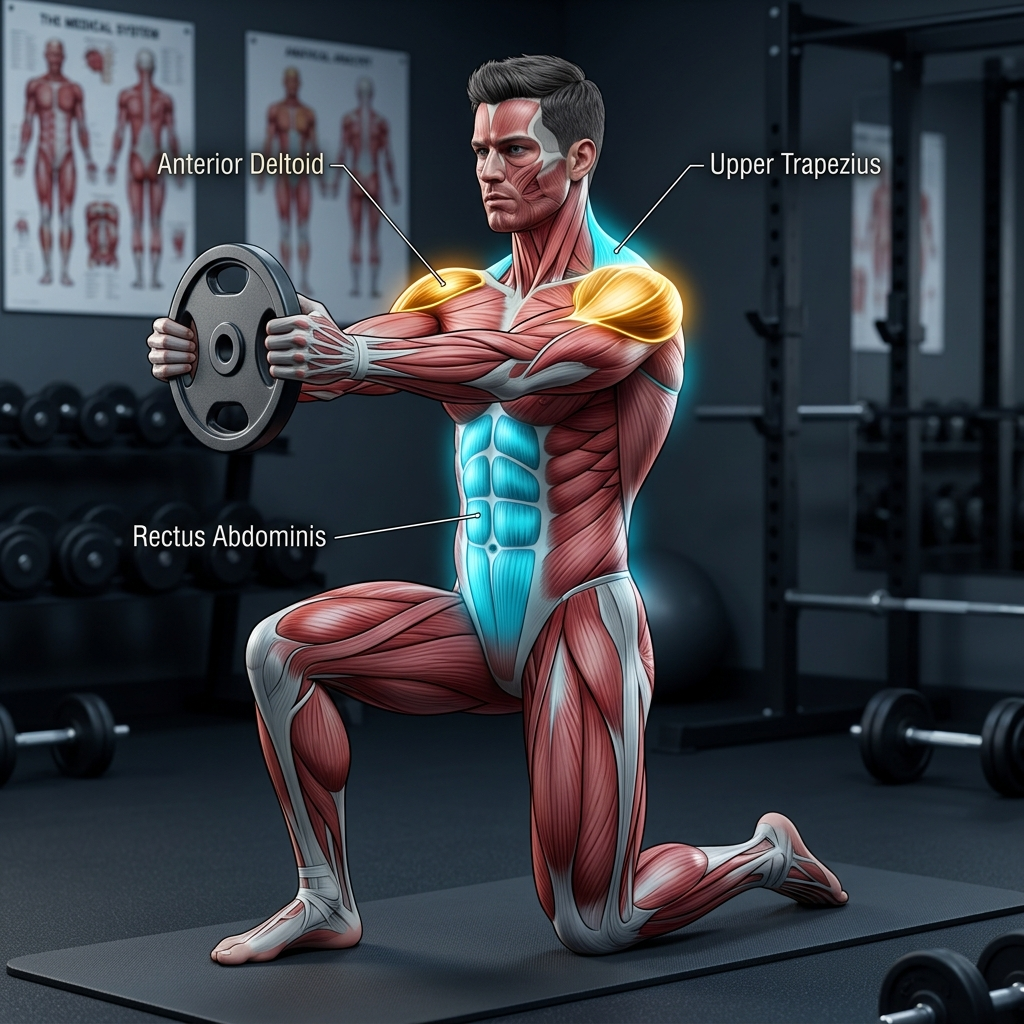
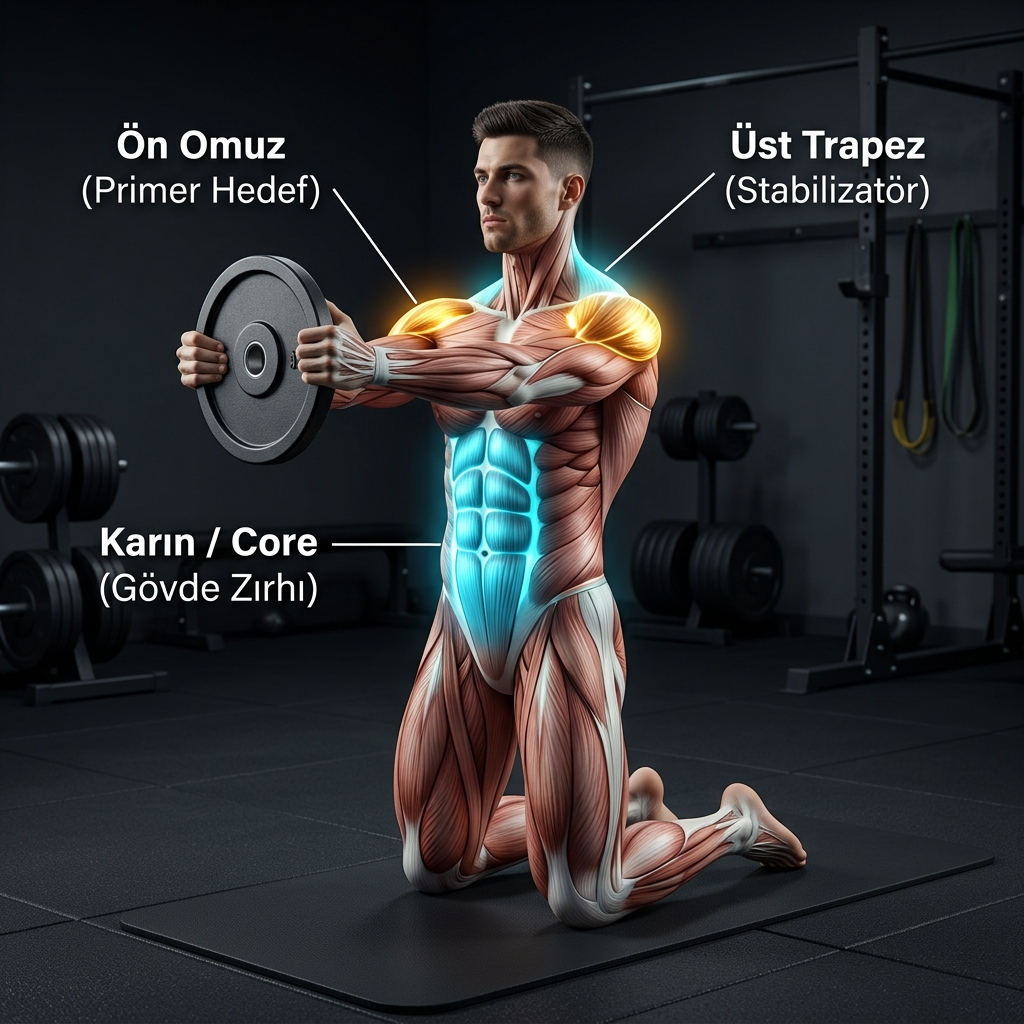
fix: Correct Kneeling Plate Front Raise visuals to strict double-kneeling and Turkish labels (v54)

diff --git a/sw.js b/sw.js
@@ -1,4 +1,4 @@
-const CACHE_NAME = 'celik-kodu-cache-v53';
+const CACHE_NAME = 'celik-kodu-cache-v54';
 const ASSETS = [
   './',
   './assets/guides/guide_kneeling_plate_front_raise_form.jpg',
